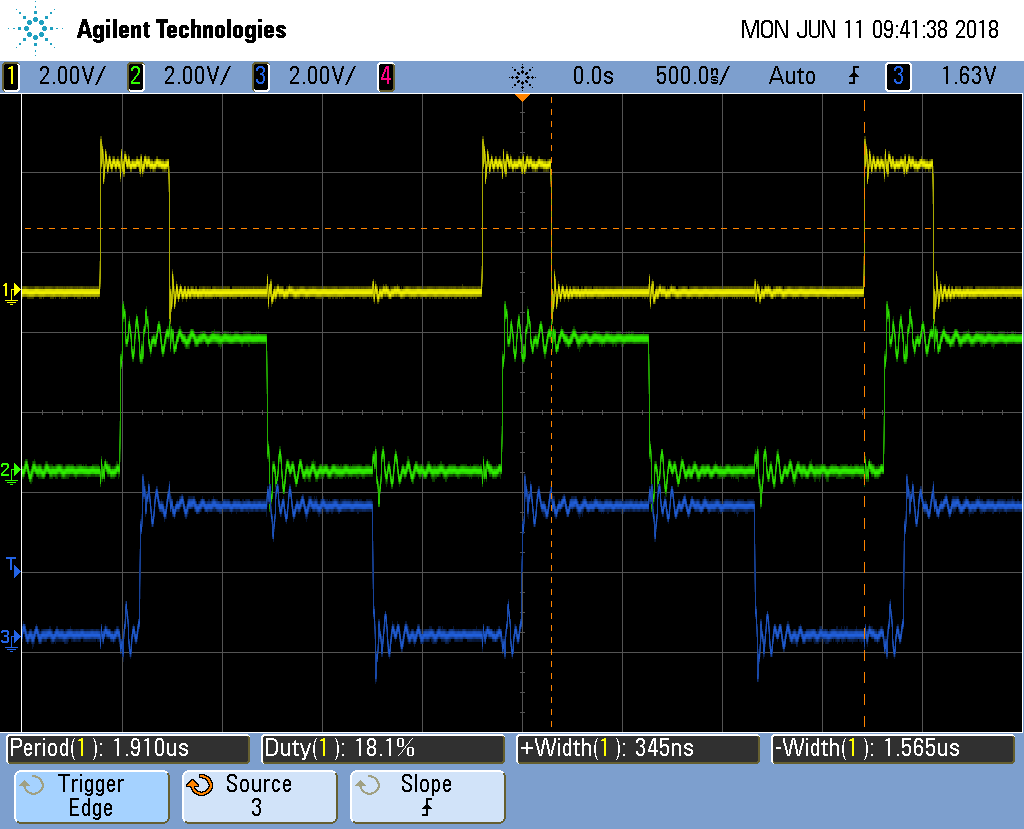
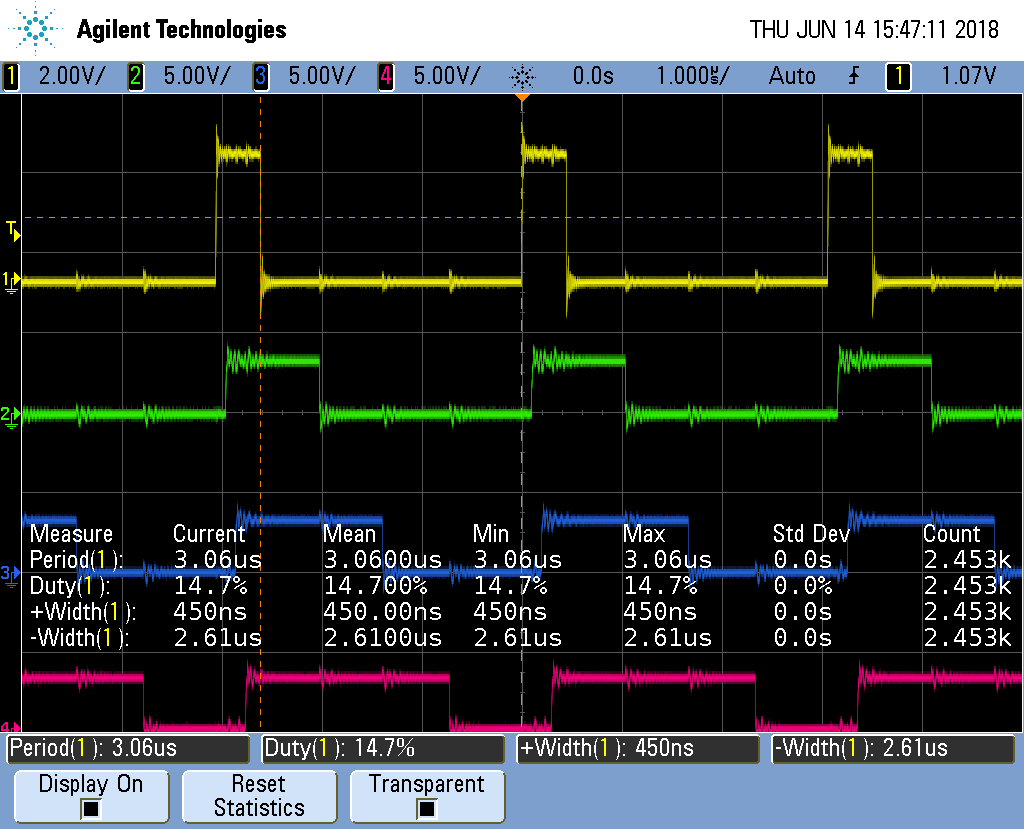
Added pwm4 plot

diff --git a/docs/05blocks/blocks.html b/docs/05blocks/blocks.html
@@ -5,8 +5,7 @@
 <!--[if IE]><meta http-equiv="X-UA-Compatible" content="IE=edge"><![endif]-->
 <meta name="viewport" content="width=device-width, initial-scale=1.0">
 <meta name="generator" content="Asciidoctor 1.5.5">
-<meta name="author" content="Mark A. Yoder">
-<title>PRU Cookbook</title>
+<title>Building Blocks - Applications</title>
 <link rel="stylesheet" href="https://fonts.googleapis.com/css?family=Open+Sans:300,300italic,400,400italic,600,600italic%7CNoto+Serif:400,400italic,700,700italic%7CDroid+Sans+Mono:400,700">
 <style>
 /* Asciidoctor default stylesheet | MIT License | http://asciidoctor.org */
@@ -512,20 +511,17 @@ table.CodeRay td.code>pre{padding:0}
 </head>
 <body class="article">
 <div id="header">
-<h1>PRU Cookbook</h1>
-<div class="details">
-<span id="author" class="author">Mark A. Yoder</span><br>
-<span id="email" class="email"><a href="mailto:Mark.A.Yoder@Rose-Hulman.edu">Mark.A.Yoder@Rose-Hulman.edu</a></span><br>
-</div>
 <div id="toc" class="toc">
 <div id="toctitle">Table of Contents</div>
 <ul class="sectlevel1">
 <li><a href="#_building_blocks_applications">1. Building Blocks - Applications</a>
 <ul class="sectlevel2">
 <li><a href="#_pwm_generator">1.1. PWM generator</a></li>
-<li><a href="#_sine_wave_generator">1.2. Sine Wave Generator</a></li>
-<li><a href="#_ultrasonic_sensor_application">1.3. Ultrasonic Sensor Application</a></li>
-<li><a href="#_neopixel_driver">1.4. neoPixel driver</a></li>
+<li><a href="#_controlling_the_pwm_frequency">1.2. Controlling the PWM Frequency</a></li>
+<li><a href="#_loop_unrolling_for_better_performance">1.3. Loop Unrolling for Better Performance</a></li>
+<li><a href="#_sine_wave_generator">1.4. Sine Wave Generator</a></li>
+<li><a href="#_ultrasonic_sensor_application">1.5. Ultrasonic Sensor Application</a></li>
+<li><a href="#_neopixel_driver">1.6. neoPixel driver</a></li>
 </ul>
 </li>
 </ul>
@@ -1199,6 +1195,9 @@ gives more details.</p></td>
 </div>
 </div>
 </div>
+</div>
+<div class="sect2">
+<h3 id="_controlling_the_pwm_frequency"><a class="link" href="#_controlling_the_pwm_frequency">1.2. Controlling the PWM Frequency</a></h3>
 <div class="sect3">
 <h4 id="_problem_2"><a class="link" href="#_problem_2">Problem</a></h4>
 <div class="paragraph">
@@ -1269,8 +1268,8 @@ gives more details.</p></td>
   <td class="line-numbers"><pre>1
 2
 </pre></td>
-  <td class="code"><pre>                                onCount[ch] = pru0_dram[ch];                <span class="comment">// Read from DRAM0</span>
-                                offCount[ch]= pru0_dram[ch+MAXCH];</pre></td>
+  <td class="code"><pre>                                onCount[ch] = pru0_dram[<span class="integer">2</span>*ch];                <span class="comment">// Read from DRAM0</span>
+                                offCount[ch]= pru0_dram[<span class="integer">2</span>*ch+<span class="integer">1</span>];</pre></td>
 </tr></table></code></pre>
 </div>
 </div>
@@ -1387,7 +1386,7 @@ the PWM on and off times.  Here&#8217;s the whole code:</p>
 </div>
 </div>
 <div class="paragraph">
-<p>Here&#8217;s is code that runs on the ARM side to set the on and off time values.</p>
+<p>Here is code that runs on the ARM side to set the on and off time values.</p>
 </div>
 <div class="listingblock">
 <div class="title">pwm-test.c</div>
@@ -1644,18 +1643,53 @@ the PWM on and off times.  Here&#8217;s the whole code:</p>
 </tr></table></code></pre>
 </div>
 </div>
+<div class="paragraph">
+<p>A check check on the 'scope shows:</p>
+</div>
+<div class="paragraph">
+<div class="title">pwm4.png PWM with ARM control</div>
+<p><span class="image"><img src="figures/pwm4.png" alt="pwm4.png"></span></p>
+</div>
+<div class="paragraph">
+<p>From the 'scope you see a 1 cycle on time results in a 450ns wide pulse and
+a 3.06us period is .326KHz  Much
+slower than the 10ns pusle we saw before.  But it may be more than fast enough
+for manny applicaions.  For example, most servos run at 50Hz.</p>
+</div>
+<div class="paragraph">
+<p>But we can do better.</p>
+</div>
 </div>
 </div>
 <div class="sect2">
-<h3 id="_sine_wave_generator"><a class="link" href="#_sine_wave_generator">1.2. Sine Wave Generator</a></h3>
+<h3 id="_loop_unrolling_for_better_performance"><a class="link" href="#_loop_unrolling_for_better_performance">1.3. Loop Unrolling for Better Performance</a></h3>
+<div class="sect3">
+<h4 id="_problem_3"><a class="link" href="#_problem_3">Problem</a></h4>
+<div class="paragraph">
+<p>The ARM controlled code runs too slowly.</p>
+</div>
+</div>
+<div class="sect3">
+<h4 id="_solution_3"><a class="link" href="#_solution_3">Solution</a></h4>
+<div class="paragraph">
+<p>Simple loops unrolling can greatly improve the speed.</p>
+</div>
+</div>
+<div class="sect3">
+<h4 id="_discussion_2"><a class="link" href="#_discussion_2">Discussion</a></h4>
+
+</div>
+</div>
+<div class="sect2">
+<h3 id="_sine_wave_generator"><a class="link" href="#_sine_wave_generator">1.4. Sine Wave Generator</a></h3>
 
 </div>
 <div class="sect2">
-<h3 id="_ultrasonic_sensor_application"><a class="link" href="#_ultrasonic_sensor_application">1.3. Ultrasonic Sensor Application</a></h3>
+<h3 id="_ultrasonic_sensor_application"><a class="link" href="#_ultrasonic_sensor_application">1.5. Ultrasonic Sensor Application</a></h3>
 
 </div>
 <div class="sect2">
-<h3 id="_neopixel_driver"><a class="link" href="#_neopixel_driver">1.4. neoPixel driver</a></h3>
+<h3 id="_neopixel_driver"><a class="link" href="#_neopixel_driver">1.6. neoPixel driver</a></h3>
 
 </div>
 </div>
@@ -1663,7 +1697,7 @@ the PWM on and off times.  Here&#8217;s the whole code:</p>
 </div>
 <div id="footer">
 <div id="footer-text">
-Last updated 2018-06-14 14:19:03 EDT
+Last updated 2018-06-14 15:59:35 EDT
 </div>
 </div>
 </body>

diff --git a/docs/index.html b/docs/index.html
@@ -5,8 +5,7 @@
 <!--[if IE]><meta http-equiv="X-UA-Compatible" content="IE=edge"><![endif]-->
 <meta name="viewport" content="width=device-width, initial-scale=1.0">
 <meta name="generator" content="Asciidoctor 1.5.5">
-<meta name="author" content="Mark A. Yoder">
-<title>PRU Cookbook</title>
+<title>Outline</title>
 <link rel="stylesheet" href="https://fonts.googleapis.com/css?family=Open+Sans:300,300italic,400,400italic,600,600italic%7CNoto+Serif:400,400italic,700,700italic%7CDroid+Sans+Mono:400,700">
 <style>
 /* Asciidoctor default stylesheet | MIT License | http://asciidoctor.org */
@@ -512,11 +511,6 @@ table.CodeRay td.code>pre{padding:0}
 </head>
 <body class="article">
 <div id="header">
-<h1>PRU Cookbook</h1>
-<div class="details">
-<span id="author" class="author">Mark A. Yoder</span><br>
-<span id="email" class="email"><a href="mailto:Mark.A.Yoder@Rose-Hulman.edu">Mark.A.Yoder@Rose-Hulman.edu</a></span><br>
-</div>
 <div id="toc" class="toc">
 <div id="toctitle">Table of Contents</div>
 <ul class="sectlevel1">
@@ -571,6 +565,9 @@ compiling on the Beagle</p>
 <p>&#10003; Robotics Control Library</p>
 </li>
 <li>
+<p>&#10063; BeagleLogic</p>
+</li>
+<li>
 <p>&#10063; LEDscape</p>
 </li>
 <li>
@@ -578,9 +575,6 @@ compiling on the Beagle</p>
 </li>
 <li>
 <p>&#10063; ArduPilot</p>
-</li>
-<li>
-<p>&#10063; BeagleLogic</p>
 </li>
 </ul>
 </div>
@@ -730,7 +724,7 @@ compiling on the Beagle</p>
 </div>
 <div id="footer">
 <div id="footer-text">
-Last updated 2018-06-14 13:43:51 EDT
+Last updated 2018-06-14 15:03:17 EDT
 </div>
 </div>
 </body>
